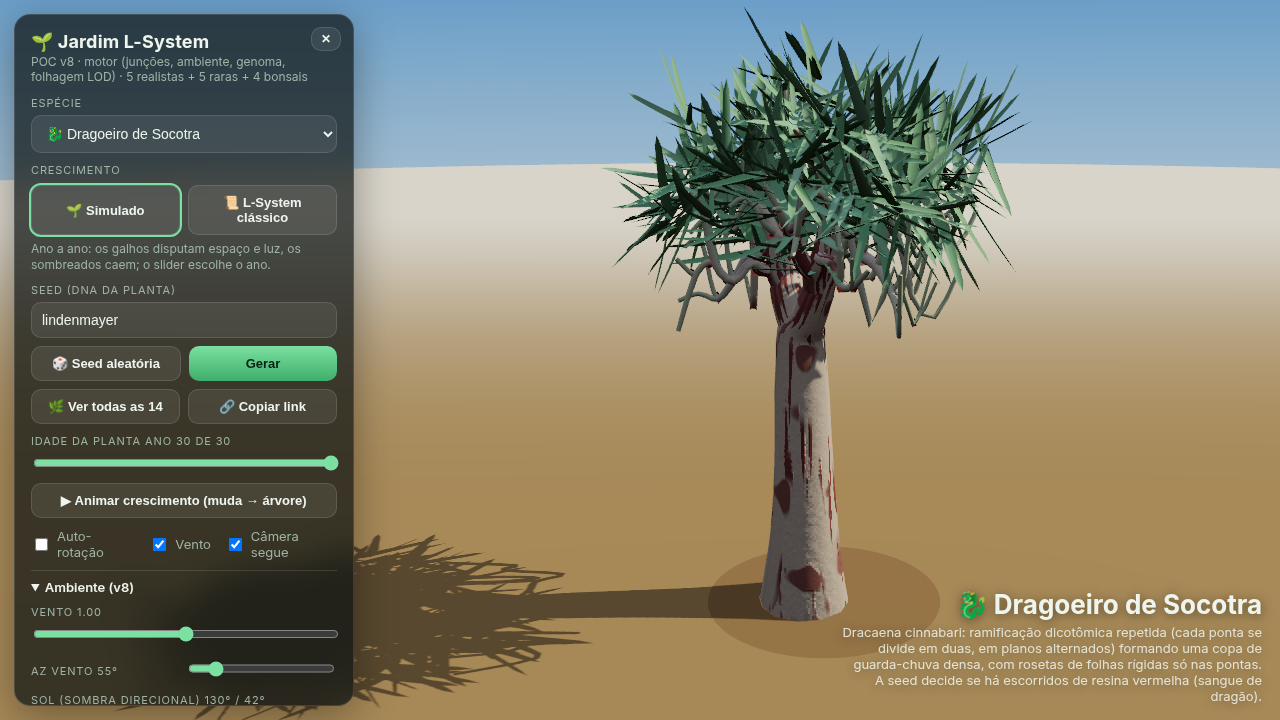
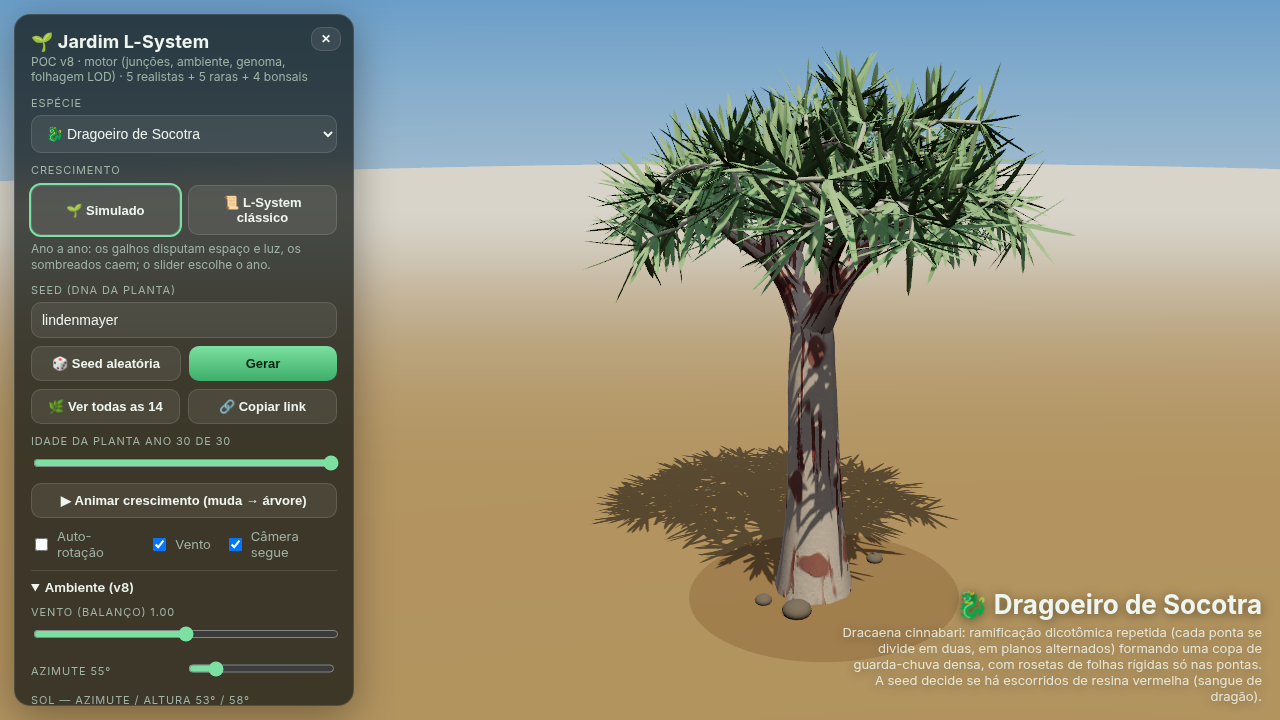
fix(v8): visual da v7, workers no jardim, junções e genoma
O visual padrão deixa de aplicar genes, gravidade e sombra inclinada.
A montagem das 14 espécies vai para 4 Web Workers. Junções grossas
(incluindo o carvalho) e jin/shari entalhados sem a malha que furava
o junípero. Raízes desviam de pedras e do vaso; LOD por distância;
painel de cruzamento com genes em português.

Changed region(s): [[0.0312, 0.0306, 0.8438, 1.0], [0.0625, 0.825, 0.125, 0.8556]]

diff --git a/docs/ARQUITETURA.md b/docs/ARQUITETURA.md
@@ -268,32 +268,9 @@ Modo padrão (botão **Crescimento: Simulado / L-System clássico**; `#…&cresc
 
 ## 14. Motor v8 (engine)
 
-Módulo auxiliar `v8-engine.mjs` (importado em `index.html`):
+A montagem pesada (L-System ou simulação) roda em `plant-worker.mjs` (`buildSkeletonPackage` em `lsystem-core.mjs`). A thread principal só monta malhas Three.js. O jardim usa 4 workers em paralelo.
 
-### 14.1 Junções contínuas
+Por padrão os genes são **mostrados** e não aplicados, a gravidade e o fototropismo começam em 0 e a sombra da simulação continua vertical — o visual padrão acompanha a v7. Cruzar, mutar ou mover um gene passa a aplicar o genoma (`&genoma=` no hash).
 
-- `buildJointMeshes` gera malha extra nas forquilhas (esfera de união + capuzes cilíndricos curtos), mesma materialização dos tubos.
-- Limitado às **100** junções mais grossas e desativado se `sk.N ≥ 4000` (carvalho clássico mantém só tubos + colar).
-- Nos bonsais **cipreste/junípero**, faces dentro da faixa **shari** são omitidas (escavação geométrica complementar ao shader `LS_DEAD`).
-- `joint-worker.mjs` permite malhar junções num Worker (opcional; a montagem principal ainda é síncrona).
-
-### 14.2 Ambiente
-
-- Estado `ENV`: azimute/elevação do **vento** e do **sol**, intensidade do vento, **gravidade** (sag no esqueleto) e **fototropismo**.
-- Uniforms `uWindDir` / `uWindStr` no shader de balanço (`lsSway`).
-- Sombra na simulação: propagação na direção do sol + componente vertical; gemas a barlavento recebem menos luz; crescimento enviesado para o vento e para o gradiente de luz.
-- `applyGravitySag`: flexão pós-tartaruga em galhos horizontais pesados.
-- Painel **Ambiente (v8)** expõe os controles; a luz direcional da cena segue `ENV`.
-
-### 14.3 Folhagem
-
-- `clusterFoliage`: folhas/agulhas do mesmo nó viram **cachos** (menos draw calls, escala √n).
-- LOD do jardim: redução ½ ou ¼ com cachos maiores (`lodScale`).
-
-### 14.4 Genoma
-
-- Nove genes legíveis derivados da seed (`::genome-v8`): vigor, ramificação, densidade, alongamento, casca, musgo, matiz, dominância apical, assimetria ao vento.
-- Hash opcional `&genoma=vigor:1.1,ramificacao:0.95,...` (formatos antigos sem `genoma` continuam válidos).
-- **Cruzamento** de duas seeds no painel; mutação leve; export **PNG** (`preserveDrawingBuffer`) e **glTF** (`GLTFExporter`).
-- Determinismo: genes + seed + espécie + `ENV` fixo ⇒ mesma planta.
+Junções: esferas só nas forquilhas grossas (tronco e andaime, inclusive o carvalho), com material simples de casca. Shari e jin entalham o raio do tubo (`aBump`) e o jin ganha lascas claras. Raízes de superfície desviam de três pedras semeadas e, no bonsai, permanecem dentro da elipse do vaso. Folhagem distante reduz instâncias e, mais longe, troca por um impostor.
 

diff --git a/docs/ROADMAP.md b/docs/ROADMAP.md
@@ -4,9 +4,9 @@
 
 Os itens 1 (colonização do espaço + luz) e 2 (simulação de crescimento ano a ano) foram feitos na v7 ([ARQUITETURA §13](ARQUITETURA.md#13-crescimento-simulado-v7)). Ficaram anotados para depois:
 
-3. ~~**Superfície única nas junções.**~~ **v8 (parcial)**: malha de união nas forquilhas (até 100 junções, espécies grandes só tubo+colar) + faixa shari escavada na geometria; jin ainda shader. Falta SDF/marching cubes de qualidade em todas as junções e costura perfeita de UV.
-4. ~~**Física e ambiente.**~~ **v8 (parcial)**: vento/sol no painel, sombra direcional na simulação, fototropismo e sag por gravidade; **raízes** desviando do vaso/pedras ainda não.
-5. ~~**Folhagem melhor e mais leve.**~~ **v8 (parcial)**: cachos por nó + LOD no jardim; faltam *impostors* por distância e Worker na montagem completa (só `joint-worker.mjs` preparado).
+3. ~~**Superfície única nas junções.**~~ **v8**: esferas nas forquilhas grossas (tronco e andaime, sem teto de 4000 nós) + shari/jin entalhados no raio do tubo. Não é um SDF contínuo em toda a copa.
+4. ~~**Física e ambiente.**~~ **v8**: vento, sol, gravidade e fototropismo no painel (desligados no padrão para não mudar a v7). Com eles ligados, a sombra da simulação segue o sol, a copa entorta e os galhos grossos vergam. Raízes desviam de pedras e ficam dentro do vaso.
+5. ~~**Folhagem melhor e mais leve.**~~ **v8**: a simulação inteira vai para Web Workers; no jardim, folhas distantes caem para 1/2, 1/4 e depois um impostor. Cachos grandes no close-up foram retirados porque inchavam a copa.
 6. ~~**Seed como genoma legível.**~~ **v8**: nove genes, painel, cruzamento, mutação, hash `&genoma=`, PNG e glTF.
 
 ## Geometria e madeira

diff --git a/docs/HISTORICO.md b/docs/HISTORICO.md
@@ -2,7 +2,15 @@
 
 Datas no horário de Brasília (UTC−3).
 
-## v8: motor (junções, ambiente, genoma, folhagem) (12/11/2026)
+## v8: motor (revisão) (12/11/2026)
+
+- Visual padrão de novo alinhado à v7: genes só mudam a planta quando o usuário cruza, muta ou edita um controle. Gravidade e fototropismo começam em zero. A sombra simulada volta a cair na vertical até o sol sair do padrão.
+- Junções nas forquilhas grossas (inclui o carvalho), sem a malha que furava o junípero. Shari/jin entalhados no tubo.
+- Jardim montado em Web Workers (4): cerca de 2 s de CPU de esqueleto no headless, UI livre durante a simulação.
+- Raízes desviam de pedras e do vaso. LOD por distância (metade / quarto das folhas, depois impostor).
+- Painel de genoma: dois pais, filho, sliders com nomes em português, mutação.
+
+## v8: motor (primeira passagem) (12/11/2026)
 
 - **Junções**: malha de união nas forquilhas + escavação geométrica do shari nos bonsais (complementa o shader).
 - **Ambiente**: vento direcional (shader + simulação), sol direcional (sombras na grade), fototropismo, gravidade no esqueleto; controles no painel.
